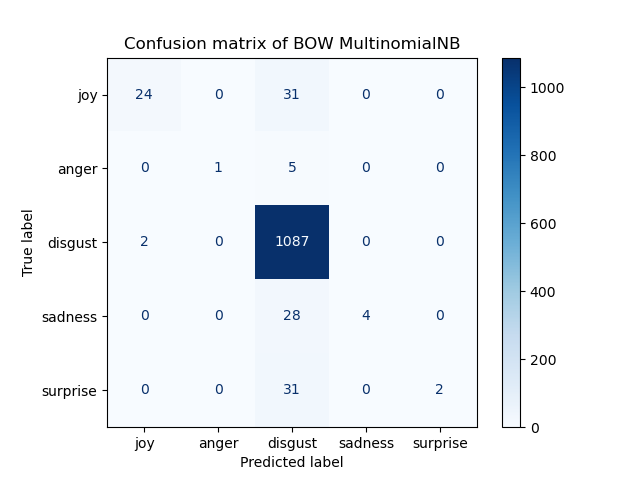
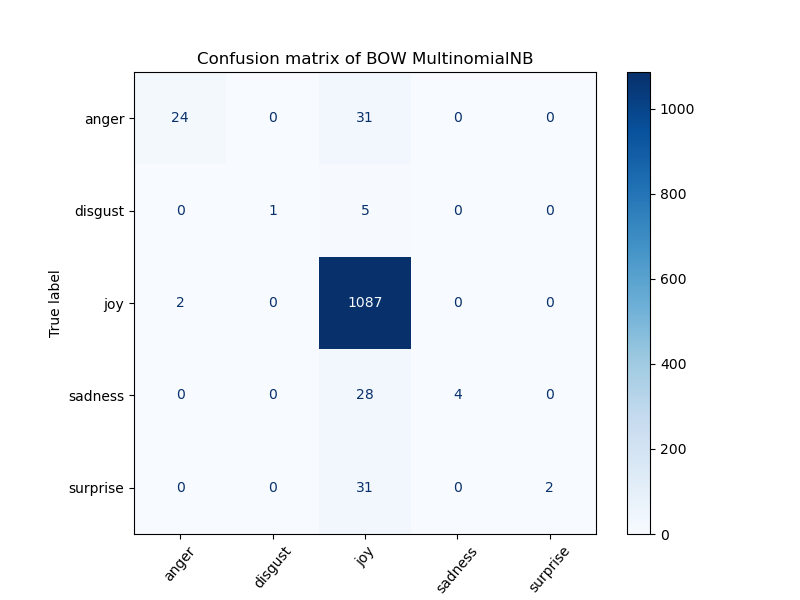
new CM files

diff --git a/Controller/Validation/QuickValidation.py b/Controller/Validation/QuickValidation.py
@@ -19,10 +19,14 @@ parent_folder = ""
 def confusion_matrix(classifier, X, y, name, wordvectorname, df):
     class_names = df.sentiment.unique()
 
-    disp = plot_confusion_matrix(classifier, X, y, display_labels=class_names, cmap=plt.cm.Blues)
+    fig, ax = plt.subplots(figsize=(8, 6))
+
+    disp = plot_confusion_matrix(classifier, X, y, cmap=plt.cm.Blues, ax=ax)
+
+    plt.xticks(rotation=50)
 
     plt.title("Confusion matrix of {} {}".format(wordvectorname, name))
-
+    ax.tick_params(axis='both', which='major', labelsize=10)
     img_file_name = confusion_matrix_file_name_pattern.format(wordvectorname, name).lower()
     plt.savefig(path_dir+img_file_name)
 
@@ -105,12 +109,13 @@ def run_tfidf(df, X, y, foldername):
 
 
 def run(df, foldername):
-    X = df['tweet_text'].values
+
+    X = df['tweet_text'].values.astype('U')
     y = df['sentiment'].values
 
     run_bow(df, X, y, foldername)
     run_tfidf(df, X, y, foldername)
 
-    f.close()
+    #f.close()
 
 
